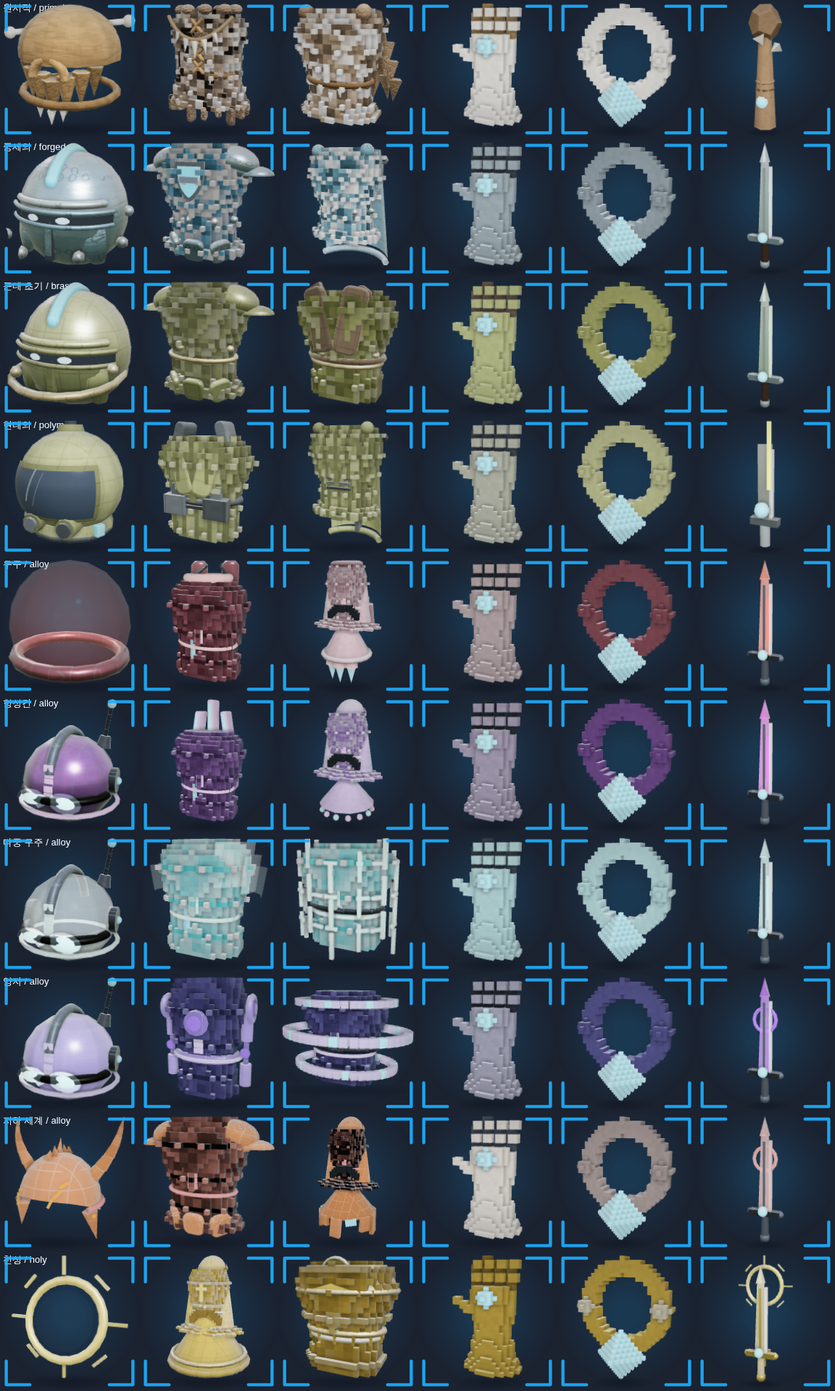
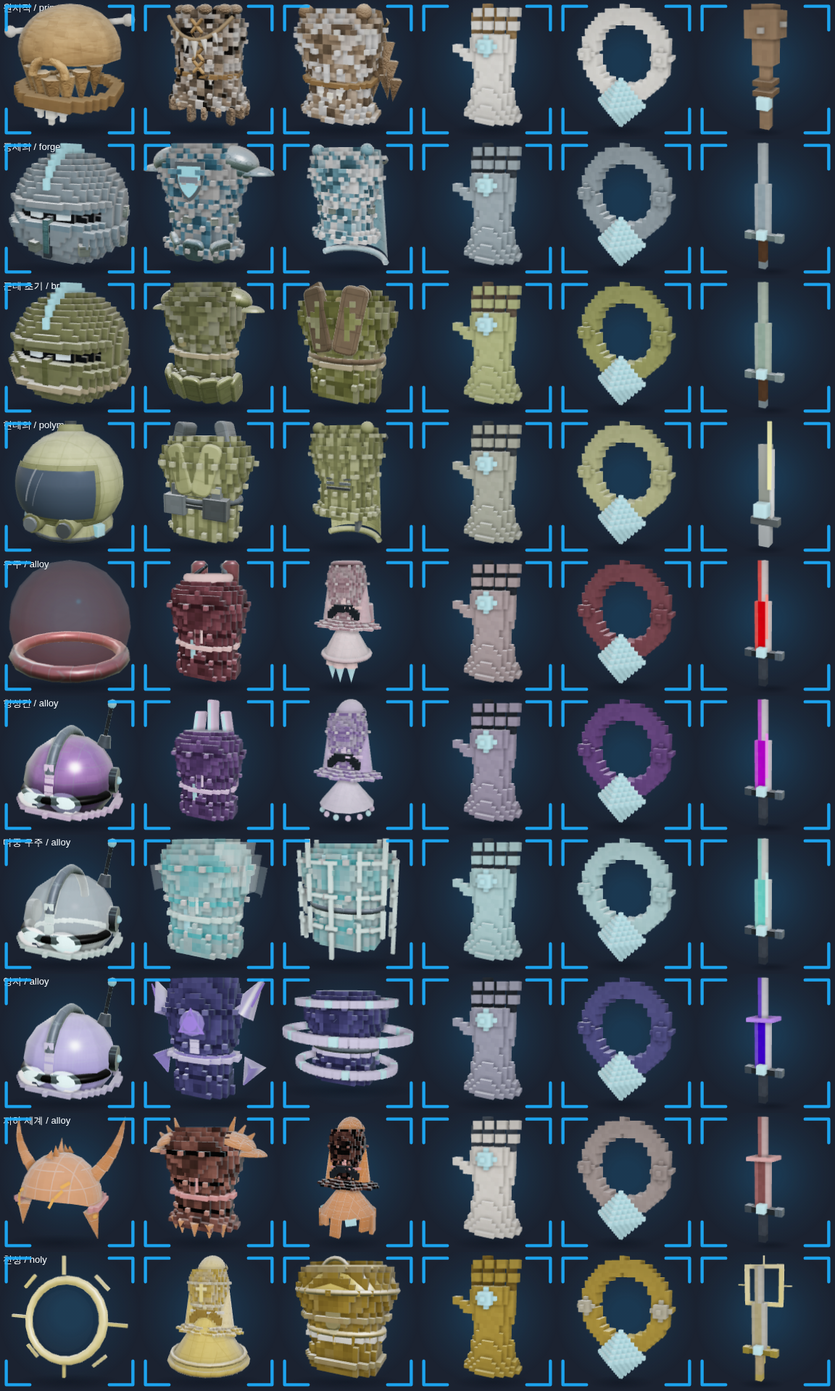
투구 3스타일(풀헬름·가면·고깔)과 시대 트림 공통을 큐브 적층으로 (equip-voxelize ⓑ 5차)
- makeHelmet 에 복셀 공용(HS=0.024 — 갑옷·장신구와 동일 칸, vhead/voxMat 경유)
- visor: 계단 구면 셸 + 눈 슬릿을 **실제로 뚫은 개구부**(행의 전면 아크 칸 제거)+니어블랙
  캐비티+발광 눈 큐브, 상하 림=행 색, 뺨 판·브로우=셸 +1칸 돌출 패치, 볏=1칸 폭 계단
  아크(0.62π), 밀폐 시대 분기(씰링 링·걸쇠·호흡 포트) 전부 큐브 문법으로 계승
- mask: 전면 ±76° 계단 아크 판 + 계단 돔 + 3×3 함몰 눈(림 톤 테두리)+발광 동공 큐브
  + 다크 벤트 블록/등급색 사각 림(발광 분리)
- cone/tophat: 계단 원뿔·각단 통 + 원판 챙 + 등급색 링
- addAgeTrim(투구·갑옷 공용): 토러스 타원 링 → 큐브 타원 띠(faceOpen 아크 필터 유지),
  리벳 반구·황동 스터드·성광 보석 → 큐브, 원시 뼈 이빨 → 2단 계단 촉
- 실측: 장비 평균 92.1→96.9% · 완전 58/62 (visor 5.5→100 · mask 12.4→100 · cone 55→100 ·
  scale 91.7→100), 장비 시트 판독 확인·콘솔 에러 0, 문법 OK
- 잔여: tech 24.7 · plume 52.0 · robe 57.3 · plate 72.7 (+비감사 fin/sealed/bubble/skull 등)

Claude-Session: https://claude.ai/code/session_01M7zDA4A4b4kd3EGv2WcQqJ

diff --git a/web/js/scene3d.js b/web/js/scene3d.js
@@ -6498,24 +6498,29 @@ const Scene3D = {
             }
             return d;
         };
-        // 타원 링: 토러스는 로컬 XY면 → rotation.x=π/2로 눕히면 로컬 y가 월드 z가 된다(scale.y로 z반경 조절)
+        // 🧊 타원 링 — 토러스 → 큐브 타원 띠 (equip-voxelize ⓑ). Voxel.ellipse 는 칸 0 대칭이라
+        //    put(0, y, 0) 하면 중심이 정확히 ctr 에 온다. 앞이 열린 투구(faceOpen)는 정면 아크
+        //    칸을 걸러 종전 부분 토러스와 같은 자리를 비운다.
         const ellipseRing = (tube, seg, m) => {
-            const geo = new THREE.TorusGeometry(rx, tube, 5, seg, open ? TAU - 2 * FA : TAU);
-            // 호의 시작을 정면 반대쪽으로 돌려 [π/2+FA, π/2+2π−FA] 를 덮게 한다(= 정면 ±FA 가 빈다).
-            if (open) geo.rotateZ(Math.PI / 2 + FA);
-            const t = new THREE.Mesh(geo, m);
-            t.rotation.x = Math.PI / 2;
-            t.scale.y = rz / rx;   // 로컬 y(→ 월드 z) 만 눌러 타원으로. 호 시작 위치와 무관하다
-            return t;
+            const TS = 0.024;
+            const rC = rx / TS, kZ = rz / rx;
+            const th = Math.max(1.4, (tube * 2.6) / TS);
+            const hC = Math.max(1, Math.round((tube * 2) / TS));
+            let cells = Voxel.ellipse(rC + th * 0.5, (rC + th * 0.5) * kZ, hC,
+                { color: m.color.getHex(), rix: rC - th * 0.5, riz: (rC - th * 0.5) * kZ });
+            if (open) cells = cells.filter(c => !inFace(Math.atan2(c.z, c.x)));
+            const t = Voxel.build(cells, { size: TS, material: this.voxMat(m, {}), center: false, jitter: 0.04, ao: 0.8 });
+            t.position.y = -(hC - 1) * TS * 0.5;   // 층 스택의 세로 중심을 링 높이에 맞춘다
+            const wrap = new THREE.Group(); wrap.add(t);
+            return wrap;
         };
         if (mats.kind === 'forged') {                       // 리벳 8개 링 — 단조 판금의 서명
             const n = o.rivets || 8, rr = Math.min(0.026, r * 0.11);
             for (let i = 0; i < n; i++) {
                 const a = (i / n) * Math.PI * 2 + 0.2;
                 if (inFace(a)) continue;               // 앞이 열린 투구 — 얼굴 앞 리벳은 건너뛴다
-                const riv = new THREE.Mesh(new THREE.SphereGeometry(rr, 7, 5, 0, Math.PI * 2, 0, Math.PI * 0.5), mats.trim);
-                riv.rotation.x = Math.PI / 2;
-                riv.rotation.z = -a;
+                const riv = new THREE.Mesh(new THREE.BoxGeometry(rr * 1.7, rr * 1.7, rr * 1.7), mats.trim);   // 🧊 반구 → 큐브 리벳
+                riv.rotation.y = -a;   // 면이 표면 법선을 보게(회전 박스 = 로컬 축정렬)
                 put(riv, Math.cos(a) * rx, y, Math.sin(a) * rz);
             }
         } else if (mats.kind === 'alloy') {                 // 발광 라인 — 아랫단 링 + 정면 세로 스트립
@@ -6549,21 +6554,27 @@ const Scene3D = {
         } else if (mats.kind === 'primal') {                // 가죽 결속끈 + 매달린 뼈 구슬
             put(ellipseRing(Math.min(0.02, r * 0.085), 18, mats.trim), 0, y, 0);
             for (const [dx, dy] of [[-0.055, -0.05], [0, -0.075], [0.055, -0.05]]) {
-                const tooth = new THREE.Mesh(new THREE.ConeGeometry(Math.min(0.022, r * 0.09), Math.min(0.07, r * 0.3), 5), mats.bead);
-                tooth.rotation.x = Math.PI;
-                put(tooth, dx, y + dy, rz * 0.86 * zf);
+                // 🧊 뼈 이빨 — 원뿔 → 2단 계단 촉(위 굵고 아래 가는 큐브)
+                const tw = Math.min(0.04, r * 0.17), th = Math.min(0.07, r * 0.3);
+                const t1 = new THREE.Mesh(new THREE.BoxGeometry(tw, th * 0.55, tw), mats.bead);
+                put(t1, dx, y + dy + th * 0.22, rz * 0.86 * zf);
+                const t2 = new THREE.Mesh(new THREE.BoxGeometry(tw * 0.55, th * 0.5, tw * 0.55), mats.bead);
+                put(t2, dx, y + dy - th * 0.25, rz * 0.86 * zf);
             }
         } else if (mats.kind === 'brass') {                 // 황동 림 밴드 + 스터드 4개
             put(ellipseRing(Math.min(0.016, r * 0.07), 20, mats.trim), 0, y, 0);
             for (let i = 0; i < 4; i++) {
                 const a = (i / 4) * Math.PI * 2 + 0.4;
                 if (inFace(a)) continue;               // 앞이 열린 투구 — 얼굴 앞 스터드는 건너뛴다
-                const stud = new THREE.Mesh(new THREE.SphereGeometry(Math.min(0.024, r * 0.1), 7, 5), mats.trim);
+                const sr = Math.min(0.024, r * 0.1);
+                const stud = new THREE.Mesh(new THREE.BoxGeometry(sr * 1.6, sr * 1.6, sr * 1.6), mats.trim);   // 🧊 구 → 큐브 스터드
+                stud.rotation.y = -a;
                 put(stud, Math.cos(a) * rx, y + size.y * 0.1, Math.sin(a) * rz);
             }
         } else if (mats.kind === 'holy') {                  // 상아 새시 밴드 + 정면 성광 보석 — 금·백 2톤의 서명
             put(ellipseRing(Math.min(0.016, r * 0.07), 20, mats.trim), 0, y, 0);
-            const gem = new THREE.Mesh(new THREE.SphereGeometry(Math.min(0.024, r * 0.1), 8, 6), mats.bead || mats.trim);
+            const gr = Math.min(0.024, r * 0.1);
+            const gem = new THREE.Mesh(new THREE.BoxGeometry(gr * 1.7, gr * 1.7, gr * 1.7), mats.bead || mats.trim);   // 🧊 성광 보석 큐브
             put(gem, 0, y + size.y * 0.08, rz * 0.99 * zf);
         } else if (mats.kind === 'polymer') {               // 정면 벤트 슬랫 3줄
             for (let i = 0; i < 3; i++) {
@@ -6604,6 +6615,14 @@ const Scene3D = {
         const darkMat = mats.dark;
         const rareMat = this.rarityDecorMat(pc);
         style = style || 'plume';
+        // 🧊 투구 복셀 공용 (equip-voxelize ⓑ — 투구도 축정렬 큐브 적층으로). 칸은 갑옷·장신구와
+        //    같은 0.024 — 슬롯마다 칸이 다르면 화풍이 안 모인다(갑옷 5차 실측 결론). 색은 정점에
+        //    굽고 시대 셰이딩은 voxMat 의 shade 로 잇는다(맵 없는 셰이더 항만 살린다).
+        //    Voxel 헬퍼(ellipse/dome/ring/taper)는 칸 0 대칭(홀수 폭)이라 중심이 정확히 0 에 온다.
+        const HS = 0.024;
+        const V = Voxel;
+        const HEXOF = m => m.color.getHex();
+        const vhead = (voxels, src, opts) => { const mesh = this.voxPart(voxels, HS, src, opts); g.add(mesh); return mesh; };
 
         if (style === 'plume') {            // 돔 + 깃장식
             const dome = new THREE.Mesh(new THREE.SphereGeometry(0.25, 12, 8, 0, Math.PI * 2, 0, Math.PI / 2), mat);
@@ -6649,142 +6668,112 @@ const Scene3D = {
                     g.add(socket);
                 }
             }
-        } else if (style === 'cone') {      // 고깔 모자 (마법사/사신)
-            const cone = new THREE.Mesh(new THREE.ConeGeometry(0.26, 0.55, 10), mat);
-            cone.position.y = 0.34;
-            cone.rotation.z = 0.12;
-            const brim = new THREE.Mesh(new THREE.CylinderGeometry(0.36, 0.36, 0.03, 12), mat);
-            brim.position.y = 0.08;
-            g.add(cone, brim);
-        } else if (style === 'tophat') {    // 실크햇/제모
-            const brim = new THREE.Mesh(new THREE.CylinderGeometry(0.33, 0.33, 0.03, 14), mat);
-            brim.position.y = 0.1;
-            const top = new THREE.Mesh(new THREE.CylinderGeometry(0.19, 0.2, 0.38, 14), mat);
-            top.position.y = 0.3;
-            const ribbon = new THREE.Mesh(new THREE.CylinderGeometry(0.2, 0.205, 0.07, 14), rareMat);
-            ribbon.position.y = 0.15;
-            g.add(brim, top, ribbon);
-        } else if (style === 'visor') {     // 풀헬름 — 돔+뺨가드+눈 슬릿, 슬릿 안 발광 눈 2점 (어둠 속 시선)
-            const helm = new THREE.Mesh(new THREE.SphereGeometry(0.28, 14, 10, 0, Math.PI * 2, 0, Math.PI * 0.78), mat);
-            helm.position.y = 0.04;
-            helm.scale.set(0.97, 1.02, 1);
-            // 슬릿 = 돔 곡률을 따라 감싸는 함몰 밴드 — 박스 돌출식은 정면 '선글라스 스티커'·측면 '번진 글자' 오독 (비평가 7.1 2번)
-            const cavity = new THREE.MeshBasicMaterial({ color: 0x0c0f12 });
-            const slitArc = Math.PI * 0.62; // 전면 ±56° — 측면에선 자연스럽게 원근 수축
-            const slit = new THREE.Mesh(new THREE.CylinderGeometry(0.2855, 0.2855, 0.048, 18, 1, true, -slitArc / 2, slitArc), cavity);
-            slit.position.set(0, 0.06, 0);
-            for (const [sy, off] of [[0.088, 0.5], [0.032, -0.5]]) { // 상하 금속 림 — 개구부 프레임이 빛을 받아 '뚫린 구멍'으로 판독
-                const rim = new THREE.Mesh(new THREE.TorusGeometry(0.2865, 0.011, 5, 18, slitArc),
-                    this.tintOf(mat, -0.1)); // 시대 재질 계승 — 여기만 금속으로 굳히면 원시 투구에 강철 림이 붙는다
-                rim.rotation.x = Math.PI / 2;
-                rim.rotation.z = Math.PI / 2 - slitArc / 2; // 토러스 아크 중심을 +z로
-                rim.position.y = sy;
-                g.add(rim);
+        } else if (style === 'cone') {      // 🧊 고깔 모자 — 계단 원뿔 + 원판 챙 (equip-voxelize ⓑ)
+            const cBody = HEXOF(mat);
+            const brim = vhead(V.disc(15, 1, cBody), mat, { shade: mats.kind });
+            brim.position.y = 0.066;
+            const cone = vhead(V.taper(10.8, 0.5, 23, cBody), mat, { shade: mats.kind });
+            cone.position.y = 0.09;
+            cone.rotation.z = 0.12;          // 종전 기울임 유지(전체 회전 = 로컬 축정렬)
+        } else if (style === 'tophat') {    // 🧊 실크햇/제모 — 원판 챙 + 각단 통 + 등급색 리본 링 (equip-voxelize ⓑ)
+            const cBody = HEXOF(mat);
+            const brim = vhead(V.disc(14, 1, cBody), mat, { shade: mats.kind });
+            brim.position.y = 0.086;
+            const top = vhead(V.taper(8.3, 7.9, 16, cBody), mat, { shade: mats.kind });
+            top.position.y = 0.112;
+            const ribbon = vhead(V.ring(9, 1.4, 3, new THREE.Color(pc).getHex()), rareMat, { emissive: pc, emissiveIntensity: 0.35, jitter: 0.03 });
+            ribbon.position.y = 0.118;
+        } else if (style === 'visor') {     // 풀헬름 — 🧊 계단 셸 + 눈 슬릿 개구 + 발광 눈 (equip-voxelize ⓑ)
+            // 종전 조형의 서명을 칸 문법으로 전부 잇는다:
+            //   · 슬릿 = 돌출 스티커가 아니라 **셸을 실제로 뚫은 개구부**(그 행의 전면 아크 칸을
+            //     제거) + 안쪽 캐비티 링(니어블랙) — '뚫린 구멍' 판독 유지 (비평가 7.1 2번)
+            //   · 상하 금속 림 = 개구부 위·아래 행의 전면 아크를 어두운 톤으로(행 색 = 프레임)
+            //   · 뺨 판·브로우 리지 = 셸 반지름 +1 칸의 돌출 패치(순수 구 실루엣 깨기, A 단독 P1)
+            //   · 볏 = 정수리를 넘는 1칸 폭 계단 아크(끝이 슬릿 위에서 멈춤 — 종전 0.62π 그대로)
+            const R = 12, CY = 2;                    // 셸 반지름(칸)·구심(월드 0.048 ≈ 종전 0.04)
+            const slitArc = Math.PI * 0.62;          // 전면 ±56° — 측면에선 자연스럽게 원근 수축
+            const inArc = (x, z, arc) => Math.abs(Math.atan2(x, z)) < arc / 2;   // +z 가 정면
+            const cBody = HEXOF(mat), cRim = this.tintOf(mat, -0.1).color.getHex();
+            const cCheek = this.tintOf(mat, -0.05).color.getHex(), cBrow = this.tintOf(mat, 0.06).color.getHex();
+            // 🚨 **코 가드(nasal)는 전산업 시대의 것이다 (equip-era-theming ⑧)** — 밀폐 시대(polymer/
+            //    alloy)는 콧대 바 대신 목 씰링 링 + 턱 호흡 포트 (비평가 A·B 공통 지적, 종전 그대로).
+            const sealedHelm = this.ageGearKind(age) === 'polymer' || this.ageGearKind(age) === 'alloy';
+            const v = [];
+            for (let dy = -9; dy <= R; dy++) {       // 0.78π 컷 — 아래 -9칸(뺨 아래)에서 끝난다
+                const rr = Math.sqrt(Math.max(0, R * R - dy * dy));
+                if (rr < 0.6) { v.push({ x: 0, y: CY + dy, z: 0, c: cBody }); continue; }
+                const slitRow = dy === 0 || dy === 1;    // 눈 슬릿 밴드(월드 y 0.048~0.096)
+                const rimRow = dy === -1 || dy === 2;    // 상하 금속 림 행
+                for (const c of V.ellipse(rr, rr, 1, { y0: CY + dy, color: cBody, rix: Math.max(0, rr - 2.4), riz: Math.max(0, rr - 2.4) })) {
+                    if (slitRow && inArc(c.x, c.z, slitArc)) continue;         // 개구부 — 셸을 실제로 뚫는다
+                    if (rimRow && inArc(c.x, c.z, slitArc)) c.c = cRim;
+                    v.push(c);
+                }
+                if (slitRow)                             // 캐비티 — 개구부 안쪽의 함몰 어둠 벽
+                    for (const c of V.ellipse(rr - 2, rr - 2, 1, { y0: CY + dy, color: 0x0c0f12, rix: Math.max(0, rr - 4), riz: Math.max(0, rr - 4) }))
+                        if (inArc(c.x, c.z, slitArc + 0.4)) v.push(c);
+                // 뺨 판 — 슬릿 아래 하관 양옆(정면 32°~86° 섹터)에 +1칸 돌출 패치
+                if (dy >= -6 && dy <= -2)
+                    for (const c of V.ellipse(rr + 1, rr + 1, 1, { y0: CY + dy, color: cCheek, rix: rr, riz: rr })) {
+                        const a = Math.abs(Math.atan2(c.x, c.z));
+                        if (a > 0.55 && a < 1.5 && c.z > 0) v.push(c);
+                    }
+                // 브로우 리지 — 슬릿 바로 위 행의 전면 아크 +1칸 돌출 능선
+                if (dy === 3)
+                    for (const c of V.ellipse(rr + 1, rr + 1, 1, { y0: CY + dy, color: cBrow, rix: rr, riz: rr }))
+                        if (inArc(c.x, c.z, slitArc)) v.push(c);
             }
-            for (const dx of [-0.055, 0.055]) { // 캐비티 속 언릿 발광 눈 — 어둠 대비 최대
-                const glowEye = new THREE.Mesh(new THREE.SphereGeometry(0.027, 6, 5),
+            vhead(v, mat, { shade: mats.kind });
+            for (const dx of [-0.055, 0.055]) {      // 캐비티 속 언릿 발광 눈 — 어둠 대비 최대 (큐브 판)
+                const glowEye = new THREE.Mesh(new THREE.BoxGeometry(0.062, 0.03, 0.02),
                     new THREE.MeshBasicMaterial({ color: new THREE.Color(pc).offsetHSL(0, 0.18, 0.24) }));
-                const ex = dx * 1.2, ez = Math.sqrt(0.2855 * 0.2855 - ex * ex) + 0.004; // 밴드 원통면 위 — 평면 배치는 측면에서 밴드 밖 부유
-                glowEye.position.set(ex, 0.06, ez);
-                glowEye.rotation.y = Math.atan2(ex, ez); // 면 법선 방향
-                glowEye.scale.set(1.1, 0.55, 0.4);
+                const ex = dx * 1.2, ez = (R - 1.6) * HS;
+                glowEye.position.set(ex, 0.066, Math.sqrt(Math.max(0, ez * ez - ex * ex)));
+                glowEye.rotation.y = Math.atan2(ex, glowEye.position.z);   // 면 법선 방향(회전 박스 = 로컬 축정렬)
                 g.add(glowEye);
             }
-            const noseBar = new THREE.Mesh(new THREE.BoxGeometry(0.026, 0.15, 0.045),
-                this.tintOf(mat, -0.14)); // 코 가드 — 슬림+다크 (밝은 굵은 바가 '반투명 띠 아티팩트'로 오독, 비평가 7번)
-            noseBar.position.set(0, -0.02, 0.262);
-            if (age === 'medieval') {
-                // 기사 투구(중세 분기): 1차 채점 A "T자 슬릿·힌지 없이 항아리로 읽힌다" — 가로 슬릿 밑에
-                // 세로 개구부를 더해 T 를 만들고, 양옆에 바이저 힌지 리벳을 박는다(시대 공용 조형은 불변).
-                const vslit = new THREE.Mesh(new THREE.BoxGeometry(0.034, 0.15, 0.02), cavity);
-                vslit.position.set(0, -0.045, 0.266);
-                g.add(vslit);
-                for (const hs of [-1, 1]) {
-                    const hinge = new THREE.Mesh(new THREE.SphereGeometry(0.026, 7, 5), this.tintOf(mat, 0.08));
-                    hinge.position.set(hs * 0.272, 0.06, 0.02);
-                    g.add(hinge);
-                }
-            }
-            // 정수리 볏 아크 — ⚠ 이전 값(반지름 0.21, 중심 y 0.13)은 **돔 셸 안에 묻혀 있었다.**
-            // 돔은 반지름 0.28·스케일 y1.02·중심 y0.04이므로 표면이 y축 0.2856인데, 볏은 자기 중심이
-            // 0.09 위에 있어 정수리(0.09+0.21=0.30)만 셸을 0.014 뚫고 나오고 양 끝(18°/162°에서
-            // 중심거리 0.253)은 셸 속에 잠겼다. 그래서 볏이 '연결 안 된 파란 탭 조각'으로 보였다
-            // (비평가 A·B가 각각 "머리 위에 붙은 데 없는 수직 막대"로 지목한 것의 실체).
-            // 수정: 중심을 돔 중심(y 0.04)에 맞추고 반지름을 셸 바로 바깥(0.295)으로 키워 아크
-            // 전체가 셸 위를 타게 한다. 아크 길이는 0.8π→0.62π로 줄여 끝이 눈 슬릿(y 0.088)
-            // 아래로 내려오지 않게 하고, rotation.z로 정수리(90°)에 중심을 맞춘다.
-            const crestArc = Math.PI * 0.62;
-            const crestR = 0.295;
-            const crest = new THREE.Mesh(new THREE.TorusGeometry(crestR, 0.026, 6, 16, crestArc), rareMat);
-            crest.position.y = 0.04;
-            crest.rotation.y = Math.PI / 2;
-            crest.rotation.z = Math.PI / 2 - crestArc / 2;
-            // 🚨 **코 가드(nasal)는 전산업 시대의 것이다 (equip-era-theming ⑧).** 비평가 2인이 공통
-            //    1~3순위로 지목한 게 '기사 풀헬름 돔이 현대~지하 세계까지 8시대 그대로'인데, 그 돔에서
-            //    시대를 가장 크게 배신하는 부속이 **콧대를 덮는 세로 바**다(나잘 헬름·바시넷의 서명).
-            //    밀폐 헬멧에는 콧대 바가 없다 — 대신 **목 씰링 링**과 **턱 호흡 포트**가 온다
-            //    (비평가 A 원문: "우주 헬멧은 밀폐 셸+씰링 링이어야 한다", B: "seal ring and no rivets").
-            const sealedHelm = this.ageGearKind(age) === 'polymer' || this.ageGearKind(age) === 'alloy';
-            g.add(helm, slit, crest);
             if (!sealedHelm) {
+                const noseBar = new THREE.Mesh(new THREE.BoxGeometry(0.026, 0.15, 0.045),
+                    this.tintOf(mat, -0.14)); // 코 가드 — 슬림+다크 (종전 그대로, 원래 축정렬 박스)
+                noseBar.position.set(0, -0.02, 0.262);
                 g.add(noseBar);
             } else {
-                // 목 씰링 링 — 셸 아랫단을 한 바퀴 감는 두꺼운 개스킷. 헬멧이 '닫힌 것'으로 읽힌다.
-                const seal = new THREE.Mesh(new THREE.TorusGeometry(0.252, 0.030, 8, 22), this.tintOf(mat, -0.22));
-                seal.position.y = -0.132;
-                seal.rotation.x = Math.PI / 2;
-                seal.scale.y = 0.94;
-                g.add(seal);
-                const lock = new THREE.Mesh(new THREE.TorusGeometry(0.244, 0.011, 5, 22), this.tintOf(mat, 0.10));
-                lock.position.y = -0.098;
-                lock.rotation.x = Math.PI / 2;
-                lock.scale.y = 0.94;
-                g.add(lock);
-                // 턱 호흡 포트 — 콧대 바가 있던 자리에 대신 온다(정면 실루엣의 빈자리를 메운다)
-                const port = new THREE.Mesh(new THREE.CylinderGeometry(0.055, 0.068, 0.062, 12), this.tintOf(mat, -0.18));
-                port.rotation.x = Math.PI / 2 + 0.30;
-                port.position.set(0, -0.088, 0.232);
-                g.add(port);
-                const grill = new THREE.Mesh(new THREE.CylinderGeometry(0.040, 0.040, 0.016, 12),
-                    new THREE.MeshBasicMaterial({ color: 0x14181d }));
-                grill.rotation.x = Math.PI / 2 + 0.30;
-                grill.position.set(0, -0.098, 0.266);
-                g.add(grill);
-                for (const hs of [-1, 1]) {   // 포트를 셸에 잇는 짧은 호스 2줄
-                    const hose = new THREE.Mesh(new THREE.CylinderGeometry(0.017, 0.017, 0.105, 7), this.tintOf(mat, -0.22));
+                const sv = [];
+                const cSeal = this.tintOf(mat, -0.22).color.getHex(), cLock = this.tintOf(mat, 0.10).color.getHex();
+                sv.push(...V.ellipse(11.7, 11, 2, { y0: -7, color: cSeal, rix: 9.2, riz: 8.6 }));   // 목 씰링 개스킷
+                sv.push(...V.ellipse(10.6, 10, 1, { y0: -4, color: cLock, rix: 9.5, riz: 8.9 }));   // 걸쇠 링(밝은 단차)
+                sv.push(...V.at(V.box(5, 3, 3, this.tintOf(mat, -0.18).color.getHex()), -2, -5, 8)); // 턱 호흡 포트
+                sv.push(...V.at(V.box(3, 2, 1, 0x14181d), -1, -5, 11));                              // 포트 그릴(언릿 어둠)
+                vhead(sv, mat, { shade: mats.kind });
+                for (const hs of [-1, 1]) {   // 포트를 셸에 잇는 짧은 호스 2줄 — 기울인 각재(로컬 축정렬)
+                    const hose = new THREE.Mesh(new THREE.BoxGeometry(0.032, 0.105, 0.032), this.tintOf(mat, -0.22));
                     hose.position.set(hs * 0.108, -0.098, 0.196);
                     hose.rotation.z = hs * 1.05;
                     g.add(hose);
                 }
             }
-            // 아크 끝 마감 — 부분 토러스는 **끝 뚜껑이 없어** 열린 튜브 단면이 그대로 보인다.
-            // 끝점마다 같은 재질의 작은 구를 얹어 막는다(방패 개방 셸과 같은 부류의 결함).
-            for (const s of [-1, 1]) {
-                const a = Math.PI / 2 + s * crestArc / 2;
-                const capEnd = new THREE.Mesh(new THREE.SphereGeometry(0.026, 8, 6), rareMat);
-                capEnd.position.set(0, 0.04 + Math.sin(a) * crestR, Math.cos(a) * crestR);
-                g.add(capEnd);
+            if (age === 'medieval') {
+                // 기사 투구(중세 분기): T자 세로 개구 + 바이저 힌지 (1차 채점 A 처방 유지)
+                const vslit = new THREE.Mesh(new THREE.BoxGeometry(0.034, 0.15, 0.02), new THREE.MeshBasicMaterial({ color: 0x0c0f12 }));
+                vslit.position.set(0, -0.045, 0.266);
+                g.add(vslit);
+                for (const hs of [-1, 1]) {
+                    const hinge = new THREE.Mesh(new THREE.BoxGeometry(0.05, 0.05, 0.05), this.tintOf(mat, 0.08));
+                    hinge.position.set(hs * 0.272, 0.06, 0.02);
+                    g.add(hinge);
+                }
             }
-            // ── A 단독 지적 P1 완화(가법) — 돔은 그대로 두고 바시넷 특징만 얹는다 ──
-            // ⚠ 앞선 시도: 돔을 통째로 Lathe 프로파일로 바꿨더니 슬릿 캐비티가 뻥 뚫린 구멍으로 노출되고
-            //    뺨·브로우가 따로 노는 회귀가 났다(슬릿·눈·코가드가 구 반경 0.2855 에 앵커돼 있어서다).
-            //    → 돔을 건드리지 않고 **뺨 판 + 브로우 리지만 추가**해 '순수 구' 실루엣만 깬다.
-            //    슬릿 밴드(y 0.06)보다 아래·위로만 얹으므로 슬릿·눈·코가드와 겹치지 않는다.
-            // 뺨 판 — 하관 양옆(슬릿 아래)을 덮는 판금. 정면 실루엣에 얼굴 폭 → 턱 폭 좁아짐을 만든다.
-            for (const cx of [-1, 1]) {
-                const cheek = new THREE.Mesh(new THREE.SphereGeometry(0.093, 8, 8, 0, Math.PI, 0, Math.PI * 0.85), this.tintOf(mat, -0.05));
-                cheek.position.set(cx * 0.176, -0.045, 0.145);
-                cheek.scale.set(0.52, 1.25, 0.98);
-                cheek.rotation.set(0.12, cx * -0.62, cx * 0.10);
-                g.add(cheek);
+            // 정수리 볏 — 1칸 폭 계단 아크. 반지름을 셸 바로 바깥(R+1)으로 두어 전부 셸 위를 타고,
+            // 각도 ±56° 에서 끊어 끝이 눈 슬릿 아래로 내려오지 않는다(종전 0.62π 결론 그대로).
+            const crest = [];
+            const cpc = new THREE.Color(pc).getHex();
+            for (let z = -11; z <= 11; z++) {
+                const yy = Math.sqrt(Math.max(0, (R + 1.3) * (R + 1.3) - z * z));
+                if (yy < (R + 1.3) * Math.cos(slitArc / 2 + 0.35)) continue;
+                const yi = Math.round(yy);
+                crest.push({ x: 0, y: CY + yi, z, c: cpc }, { x: 0, y: CY + yi - 1, z, c: cpc });
             }
-            // 브로우 리지 — 눈 슬릿(y 0.06) 바로 위를 가로지르는 판금 능선. 매끈한 이마에 눈두덩 그늘을 만든다.
-            const brow = new THREE.Mesh(new THREE.TorusGeometry(0.243, 0.019, 6, 20, Math.PI * 0.62), this.tintOf(mat, 0.06));
-            brow.rotation.x = Math.PI / 2;
-            brow.rotation.z = Math.PI / 2 - Math.PI * 0.31;
-            brow.position.set(0, 0.118, 0.03);
-            brow.scale.set(1, 1, 0.86);
-            g.add(brow);
+            vhead(crest, rareMat, { emissive: pc, emissiveIntensity: 0.4, jitter: 0.03 });
         } else if (style === 'fin') {       // 볏 투구 계열 — 시대마다 다른 조형 (FIN_VARIANT)
             // 🚨 종전엔 `SphereGeometry(0.26, …, 0, Math.PI*0.6)` 돔 **하나**였다. thetaLength 가
             //    둘레 전체에 한 값이라, 뒤통수를 덮으려고 0.6π(= 적도 아래 18°)를 준 순간 **앞도
@@ -7166,34 +7155,39 @@ const Scene3D = {
                     g.add(fang, ember);
                 }
             }
-        } else if (style === 'mask') {      // 가면/방독면: 얼굴을 감싸는 곡면 판 (평판 박스 → 원통 셸)
-            const plate = new THREE.Mesh(new THREE.CylinderGeometry(0.24, 0.22, 0.32, 14, 1, true, -Math.PI * 0.42, Math.PI * 0.84), mat);
-            plate.material = this.tintOf(mat, 0, { side: THREE.DoubleSide }); // 원색 직치환 금지 — 시대 재질 톤 공유
-            plate.position.set(0, 0.02, 0.02);
-            const dome = new THREE.Mesh(new THREE.SphereGeometry(0.25, 12, 8, 0, Math.PI * 2, 0, Math.PI * 0.5), mat); // 정수리 덮개
-            dome.position.y = 0.1;
-            g.add(dome);
-            for (const dx of [-0.09, 0.09]) { // 눈 소켓: 함몰 어둠 + 림 + 발광 동공 — 민짜 회색 점 2개 오독 (비평가 3번)
-                const hole = new THREE.Mesh(new THREE.SphereGeometry(0.045, 8, 6), new THREE.MeshBasicMaterial({ color: 0x14181c }));
-                hole.position.set(dx, 0.04, 0.252); hole.scale.z = 0.5;
-                const socketRim = new THREE.Mesh(new THREE.TorusGeometry(0.047, 0.009, 5, 12),
-                    this.tintOf(mat, -0.14));
-                socketRim.position.set(dx, 0.04, 0.273);
-                const pupil = new THREE.Mesh(new THREE.SphereGeometry(0.016, 6, 5),
-                    new THREE.MeshBasicMaterial({ color: new THREE.Color(pc).offsetHSL(0, 0.15, 0.2) }));
-                pupil.position.set(dx, 0.04, 0.278);
-                g.add(hole, socketRim, pupil);
+        } else if (style === 'mask') {      // 🧊 가면/방독면 — 전면 계단 셸 + 정수리 돔 (equip-voxelize ⓑ)
+            // 종전 서명 유지: 얼굴을 **감싸는** 판(평판 아님 — 전면 ±76° 아크), 눈 소켓 = 함몰
+            // 어둠 + 림 + 발광 동공(민짜 점 2개 오독 방지, 비평가 3번), 호흡 필터 = 다크 벤트 +
+            // 가는 등급색 림(발광 원통은 '새는 광원' 오독 — 비평가 7.1 12번).
+            const cBody = HEXOF(mat), cRim = this.tintOf(mat, -0.14).color.getHex();
+            const v = [];
+            v.push(...V.at(V.dome(10.4, 10, cBody, { t: 2.5 }), 0, 4, 0));   // 정수리 덮개(계단 돔, y 0.1~0.35)
+            for (let dy = -6; dy <= 3; dy++) {       // 전면 아크 판 — 위 0.24 → 아래 0.22 테이퍼
+                const rr = 9.6 - (3 - dy) * 0.09;
+                for (const c of V.ellipse(rr, rr, 1, { y0: dy, color: cBody, rix: rr - 1.6, riz: rr - 1.6 }))
+                    if (Math.abs(Math.atan2(c.x, c.z)) < Math.PI * 0.42) { c.z += 1; v.push(c); }
             }
-            // 호흡 필터 — 발광 원통(rareMat)은 '턱 밑에서 새는 흰 광원'으로 오독 (비평가 7.1 12번) → 다크 금속 벤트+가는 등급색 림만
-            const mouth = new THREE.Mesh(new THREE.CylinderGeometry(0.055, 0.055, 0.05, 10), darkMat);
-            mouth.rotation.x = Math.PI / 2;
-            mouth.position.set(0, -0.1, 0.265);
-            const ventRim = new THREE.Mesh(new THREE.TorusGeometry(0.052, 0.008, 5, 12), rareMat);
-            ventRim.position.set(0, -0.1, 0.292);
-            g.add(ventRim);
+            for (const dx of [-4, 4]) {              // 눈 소켓: 3×3 함몰 어둠 + 둘레 림 톤
+                for (let x = dx - 2; x <= dx + 2; x++) for (let y = 0; y <= 2; y++) {
+                    const edge2 = (x === dx - 2 || x === dx + 2 || y === 0 || y === 2);
+                    v.push({ x, y, z: 10, c: edge2 ? cRim : 0x14181c });
+                }
+            }
+            vhead(v, mat, { shade: mats.kind });
+            for (const dx of [-0.096, 0.096]) {      // 발광 동공 큐브 — 함몰 속 언릿
+                const pupil = new THREE.Mesh(new THREE.BoxGeometry(0.032, 0.032, 0.02),
+                    new THREE.MeshBasicMaterial({ color: new THREE.Color(pc).offsetHSL(0, 0.15, 0.2) }));
+                pupil.position.set(dx, 0.028, 0.268);
+                g.add(pupil);
+            }
+            vhead(V.at(V.box(5, 4, 2, HEXOF(darkMat)), -2, -6, 9), darkMat, { jitter: 0.03 });   // 다크 벤트 블록
+            const mrim = [];                         // 가는 등급색 사각 림 — 벤트와 재질을 갈라 벤트는 안 빛나게
+            for (let x = -3; x <= 3; x++) for (let y = -7; y <= -2; y++)
+                if (x === -3 || x === 3 || y === -7 || y === -2) mrim.push({ x, y, z: 10, c: new THREE.Color(pc).getHex() });
+            vhead(mrim, rareMat, { emissive: pc, emissiveIntensity: 0.3, jitter: 0.02 });
             const strap = new THREE.Mesh(new THREE.BoxGeometry(0.5, 0.045, 0.045), darkMat);
             strap.position.y = 0.02;
-            g.add(plate, mouth, strap);
+            g.add(strap);
         } else if (style === 'halo') {      // 후광 (수호의 후광) — 링 하나는 '크림색 도넛'으로 읽혔다(1차 채점 A·B 공통).
             // 천상 공통 문법(addDivineHalo: 세워진 링 + 방사 광선 8줄)을 그대로 쓰고, 내광 디스크로 '빛'을 더한다.
             this.addDivineHalo(g, 0.42, 0.2);
